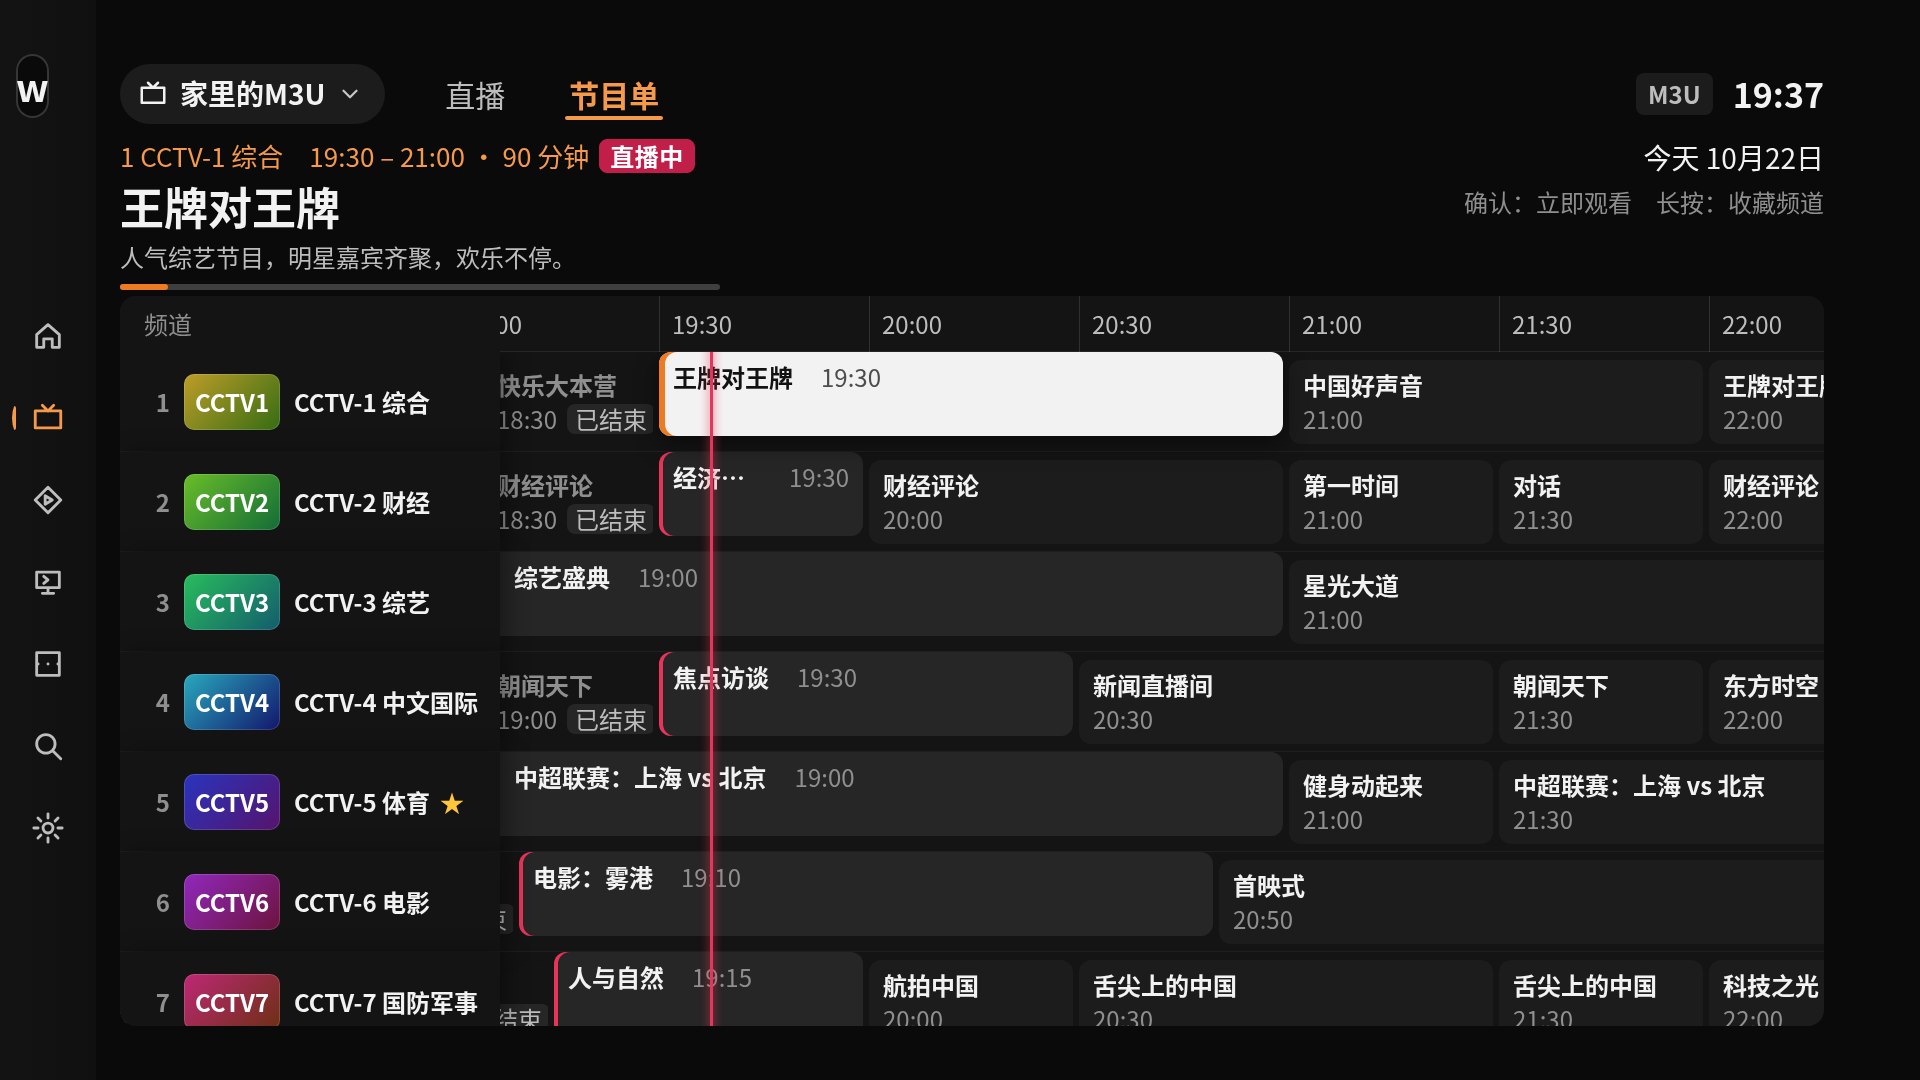
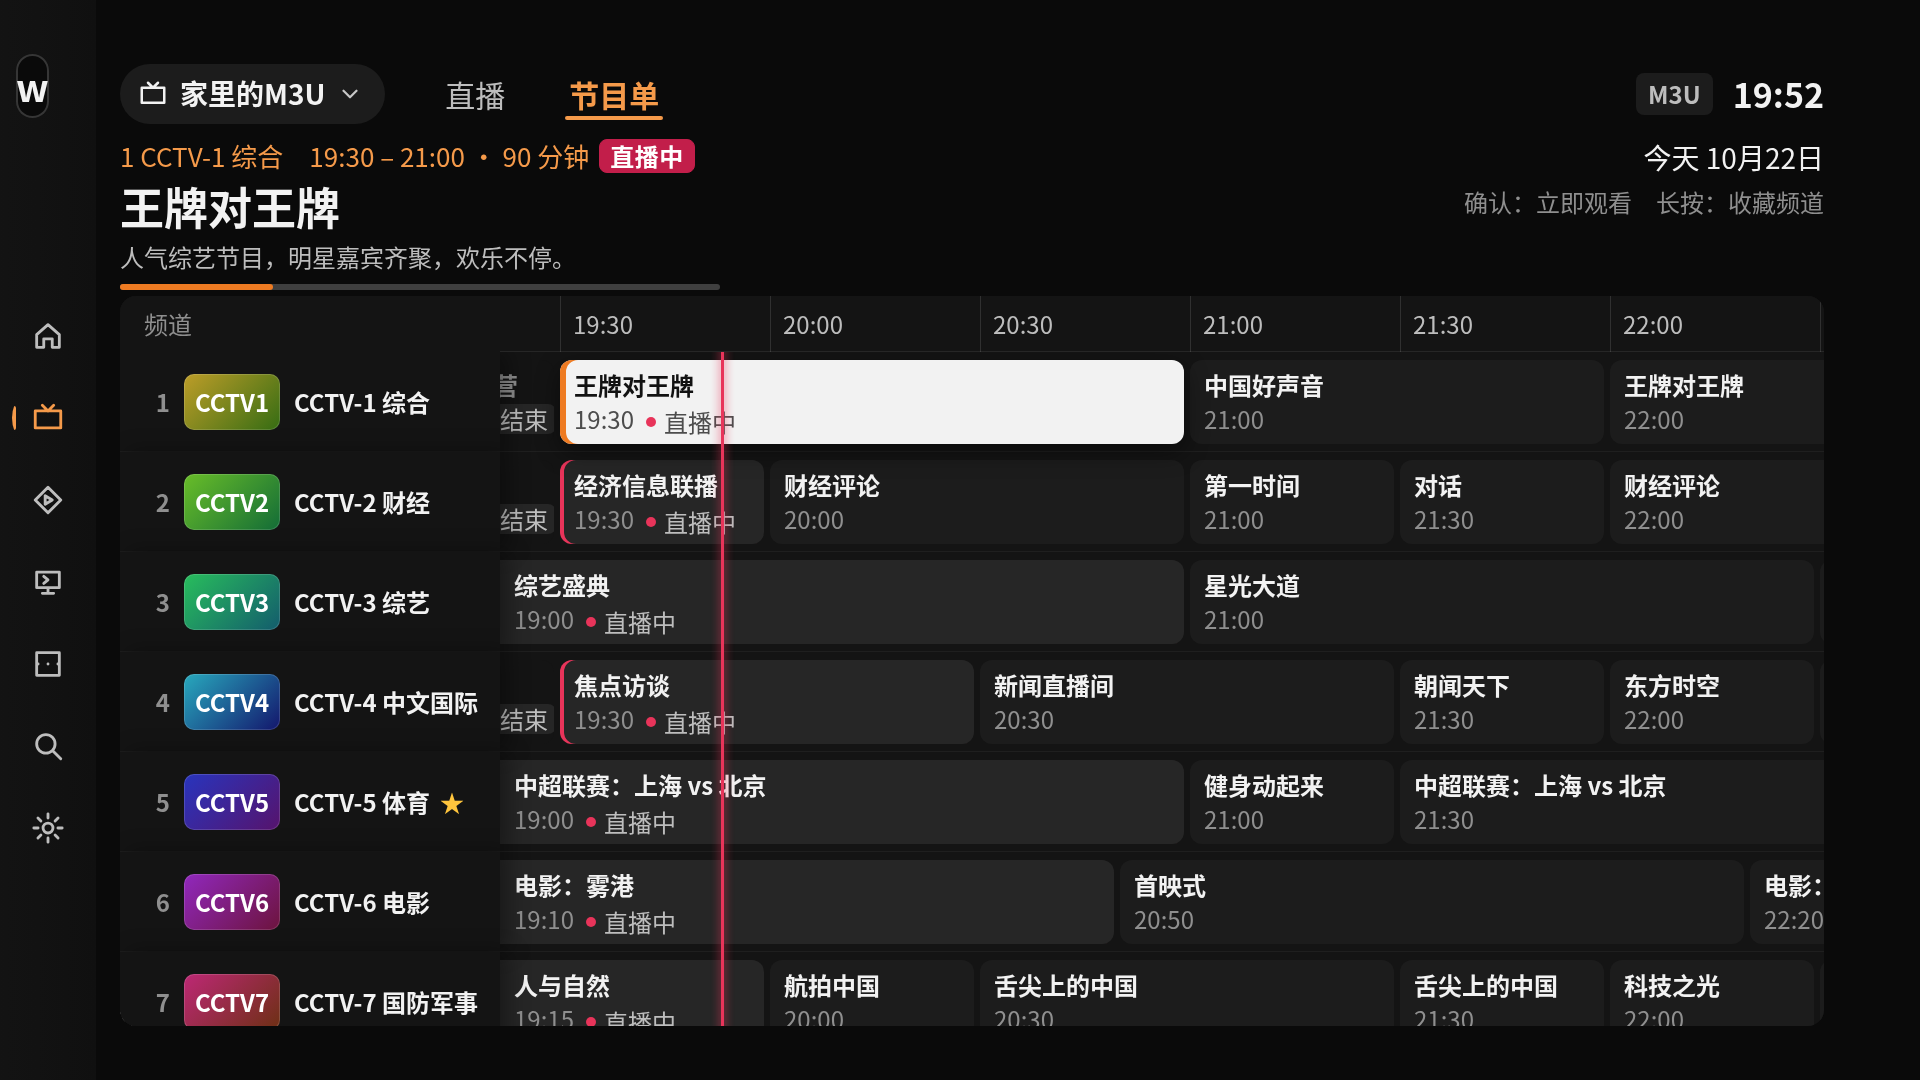
style(prototype): add live label to epg now-playing cell

diff --git a/src/styles.css b/src/styles.css
@@ -224,6 +224,11 @@ body { font-family: "Noto Sans CJK SC", "Source Han Sans SC", "PingFang SC", "Mi
 .epg-ptime { font-size: 24px; color: var(--wz-text-3); }
 .epg-prog[data-focused] { opacity: 1; z-index: 6; }
 .epg-prog[data-focused] .epg-ptime { color: var(--wz-text-on-light-2); }
+/* v0.2 §6.7：正在播出 = 时间后 ● 直播中（圆点 live 色，文字 24 text-2）；窄格只留圆点 */
+.epg-live { display: inline-flex; align-items: center; gap: 8px; margin-left: 12px; font-size: var(--wz-fs-caption); color: var(--wz-text-2); vertical-align: middle; }
+.epg-live-dot { flex: none; width: 10px; height: 10px; border-radius: 50%; background: var(--wz-live); }
+.epg-live.dot-only .epg-live-text { display: none; }
+.epg-prog[data-focused] .epg-live { color: var(--wz-text-on-light-2); }
 
 /* ---------- 媒体库 ---------- */
 .lib-scroll { position: absolute; left: 0; right: 0; top: 0; bottom: -54px; overflow: hidden; padding: 0 0 0 0; }
@@ -474,7 +479,7 @@ kbd { display: inline-block; min-width: 36px; padding: 0 8px; margin-right: 8px;
 .src-content { position: absolute; left: 0; right: 0; top: 80px; bottom: 0; }
 
 /* 直播：一屏 10 行 */
-.srcpage .live { position: absolute; left: 0; right: 0; top: 0; bottom: 0; display: flex; gap: 28px; padding-top: 8px; }
+.srcpage .live:not(.epg-prog) { /* 只匹配直播 Tab 容器；避免误伤 EPG 正在播出格 .epg-prog.live */ position: absolute; left: 0; right: 0; top: 0; bottom: 0; display: flex; gap: 28px; padding-top: 8px; }
 .srcpage .live-cats { padding-top: 0; }
 .srcpage .live-cats .list-item { height: 64px; margin-bottom: 4px; }
 .srcpage .live-list { padding-top: 0; }

diff --git a/src/screens/Epg.tsx b/src/screens/Epg.tsx
@@ -5,6 +5,8 @@ import { lastChannel, useApp } from '../store';
 import { ChannelLogo } from '../ui/Art';
 import { F, FGroup, useKeyHandler, usePageFocus } from '../ui/F';
 
+// 正在播出格宽度不足以放下「时间 + ● 直播中」时只留圆点（v0.2 §6.7）
+const LIVE_LABEL_MIN_W = 200;
 const PPM = 7; // 每分钟 7px，30 分钟 = 210px
 const MIN = 60000;
 
@@ -108,7 +110,7 @@ export function Epg({ chIds, inline, src }: { chIds?: string[]; inline?: boolean
                       }}
                       onLong={() => app.toggleFav(r.c.id, src)}>
                       <div className="epg-ptitle" style={tx ? { transform: `translateX(${tx}px)` } : undefined}>{p.title}</div>
-                      <div className="epg-ptime" style={tx ? { transform: `translateX(${tx}px)` } : undefined}>{fmtTime(p.start)}{past && <span className="epg-ended">已结束</span>}</div>
+                      <div className="epg-ptime" style={tx ? { transform: `translateX(${tx}px)` } : undefined}>{fmtTime(p.start)}{past && <span className="epg-ended">已结束</span>}{live && <span className={'epg-live' + (w < LIVE_LABEL_MIN_W ? ' dot-only' : '')}><i className="epg-live-dot" /><span className="epg-live-text">直播中</span></span>}</div>
                     </F>
                   );
                 })}
